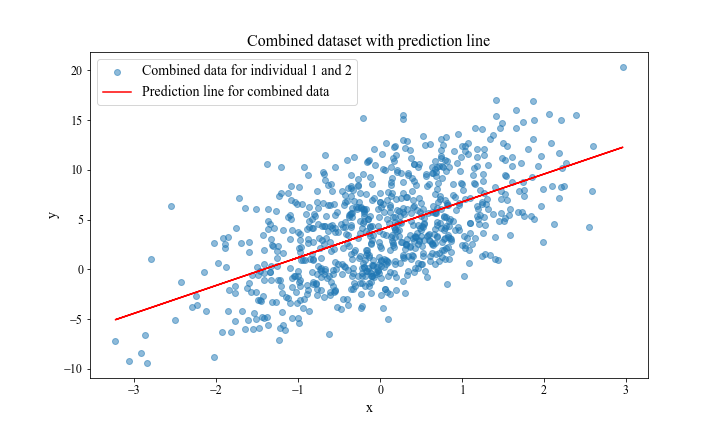
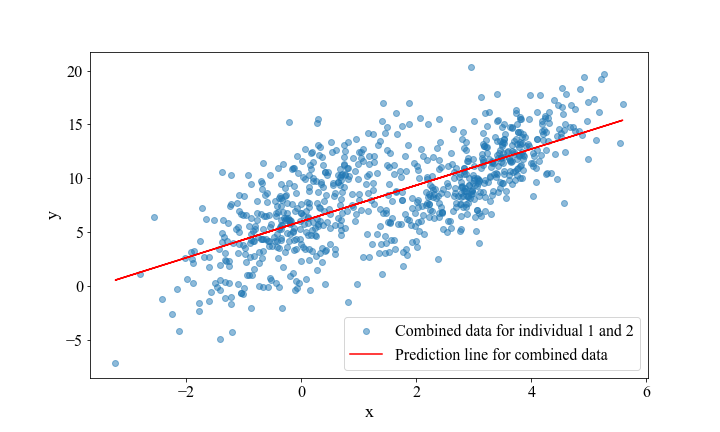
Updated plots for LMM

diff --git a/LMMPlotSyntheticData.py b/LMMPlotSyntheticData.py
@@ -5,6 +5,7 @@ Created on Thu Nov 16 14:17:28 2023
 @author: LTEI0004
 """
 
+
 #%%
 
 import numpy as np
@@ -23,7 +24,7 @@ data_1 = pd.DataFrame({'group': group_1, 'x': x_1, 'y': y_1, 'offset': offset_1}
 
 # Generating the second dataset with individual variability
 group_2 = np.repeat(2, n)
-x_2 = np.random.randn(n)
+x_2 = np.random.randn(n)+3
 offset_2 = (2 + 0.8 * group_2 + np.random.uniform(-0.5, 0.5, n)) * x_2 + np.random.randn(n) * 0.3 * group_2
 y_2 = 3 * x_2 + 1 + np.random.randn(n) + np.random.normal(0, 2, n)
 data_2 = pd.DataFrame({'group': group_2, 'x': x_2, 'y': y_2, 'offset': offset_2})
@@ -38,21 +39,23 @@ model_2 = sm.OLS(data_2['y'], sm.add_constant(data_2[['x']])).fit()
 # Predictions for the second dataset
 predictions_2 = model_2.predict(sm.add_constant(data_2[['x']]))
 
+
 # Plotting the data points and single prediction line for each dataset
 plt.figure(figsize=(10, 6))
 
 # Plotting for dataset 1
-plt.scatter(data_1['x'], data_1['y'], label='Individual 1', alpha=0.5)
-plt.plot(data_1['x'], predictions_1, label='Prediction individual 1')
+plt.scatter(data_1['x'], data_1['y'], label='Individual 1', alpha=0.5, color='g')
+plt.plot(data_1['x'], predictions_1, label='Prediction individual 1', color='g')
 
 # Plotting for dataset 2
-plt.scatter(data_2['x'], data_2['y'], label='Individual 2', alpha=0.5)
-plt.plot(data_2['x'], predictions_2, label='Prediction individual 2')
+plt.scatter(data_2['x'], data_2['y'], label='Individual 2', alpha=0.5, color='m')
+plt.plot(data_2['x'], predictions_2, label='Prediction individual 2', color='m')
 
-plt.xlabel('x')
-plt.ylabel('y')
-plt.title('Different offset for each individual')
-plt.legend()
+plt.xlabel('x', fontname="Times New Roman", fontsize=18)
+plt.ylabel('y', fontname="Times New Roman", fontsize=18)
+plt.legend(fontsize=16)
+plt.xticks(fontsize=16, family='Times New Roman')
+plt.yticks(fontsize=16, family='Times New Roman')
 plt.show()
 
 
@@ -73,87 +76,9 @@ plt.scatter(combined_data['x'], combined_data['y'], label='Combined data for ind
 # Plotting the true trend line for the combined data
 plt.plot(combined_data['x'], predictions_combined, color='r', linestyle='-', label='Prediction line for combined data')
 
-plt.xlabel('x')
-plt.ylabel('y')
-plt.title('Combined dataset with prediction line')
-plt.legend()
-plt.show()
-
-#%%
-
-import numpy as np
-import pandas as pd
-import statsmodels.api as sm
-import matplotlib.pyplot as plt
-
-# Generating the first dataset with individual variability
-np.random.seed(123)
-n = 400
-group_1 = np.repeat(1, n)
-x_1 = np.random.randn(n)
-offset_1 = (2 + 0.8 * group_1 + np.random.uniform(-0.5, 0.5, n)) * x_1 + np.random.randn(n) * 0.3 * group_1
-y_1 = 3 * x_1 + 7 + np.random.randn(n) + np.random.normal(0, 3, n)
-data_1 = pd.DataFrame({'group': group_1, 'x': x_1, 'y': y_1, 'offset': offset_1})
-
-# Generating the second dataset with individual variability
-group_2 = np.repeat(2, n)
-x_2 = np.random.randn(n)
-offset_2 = (2 + 0.8 * group_2 + np.random.uniform(-0.5, 0.5, n)) * x_2 + np.random.randn(n) * 0.3 * group_2
-y_2 = 3 * x_2 + 1 + np.random.randn(n) + np.random.normal(0, 2, n)
-data_2 = pd.DataFrame({'group': group_2, 'x': x_2, 'y': y_2, 'offset': offset_2})
-
-# Fit a linear regression model for the first dataset
-model_1 = sm.OLS(data_1['y'], sm.add_constant(data_1[['x']])).fit()
-# Predictions for the first dataset
-predictions_1 = model_1.predict(sm.add_constant(data_1[['x']]))
-
-# Fit a linear regression model for the second dataset
-model_2 = sm.OLS(data_2['y'], sm.add_constant(data_2[['x']])).fit()
-# Predictions for the second dataset
-predictions_2 = model_2.predict(sm.add_constant(data_2[['x']]))
-
-
-# Plotting the data points and single prediction line for each dataset
-plt.figure(figsize=(10, 6))
-
-# Plotting for dataset 1
-plt.scatter(data_1['x'], data_1['y'], label='Individual 1', alpha=0.5)
-plt.plot(data_1['x'], predictions_1, label='Prediction individual 1')
-
-# Plotting for dataset 2
-plt.scatter(data_2['x'], data_2['y'], label='Individual 2', alpha=0.5)
-plt.plot(data_2['x'], predictions_2, label='Prediction individual 2')
-
-plt.xlabel('x', fontname="Times New Roman", fontsize=14)
-plt.ylabel('y', fontname="Times New Roman", fontsize=14)
-plt.title('Different offset for each individual', fontname="Times New Roman", fontsize=16)
-plt.legend(fontsize=14)
-plt.xticks(fontsize=12, family='Times New Roman')
-plt.yticks(fontsize=12, family='Times New Roman')
-plt.show()
-
-
-# Combine data points from both datasets into a single dataframe
-combined_data = pd.concat([data_1[['x', 'y']], data_2[['x', 'y']]])
-
-# Fit a linear regression model for the combined data
-model_combined = sm.OLS(combined_data['y'], sm.add_constant(combined_data['x'])).fit()
-# Predictions for the combined data
-predictions_combined = model_combined.predict(sm.add_constant(combined_data['x']))
-
-# Plotting the combined data points and the true trend line for the combined data
-plt.figure(figsize=(10, 6))
-
-# Plotting combined data points
-plt.scatter(combined_data['x'], combined_data['y'], label='Combined data for individual 1 and 2', alpha=0.5)
-
-# Plotting the true trend line for the combined data
-plt.plot(combined_data['x'], predictions_combined, color='r', linestyle='-', label='Prediction line for combined data')
-
-plt.xlabel('x', fontname="Times New Roman", fontsize=14)
-plt.ylabel('y', fontname="Times New Roman", fontsize=14)
-plt.title('Combined dataset with prediction line', fontname="Times New Roman", fontsize=16)
-plt.legend(fontsize=14)
-plt.xticks(fontsize=12, family='Times New Roman')
-plt.yticks(fontsize=12, family='Times New Roman')
+plt.xlabel('x', fontname="Times New Roman", fontsize=18)
+plt.ylabel('y', fontname="Times New Roman", fontsize=18)
+plt.legend(fontsize=16)
+plt.xticks(fontsize=16, family='Times New Roman')
+plt.yticks(fontsize=16, family='Times New Roman')
 plt.show()
